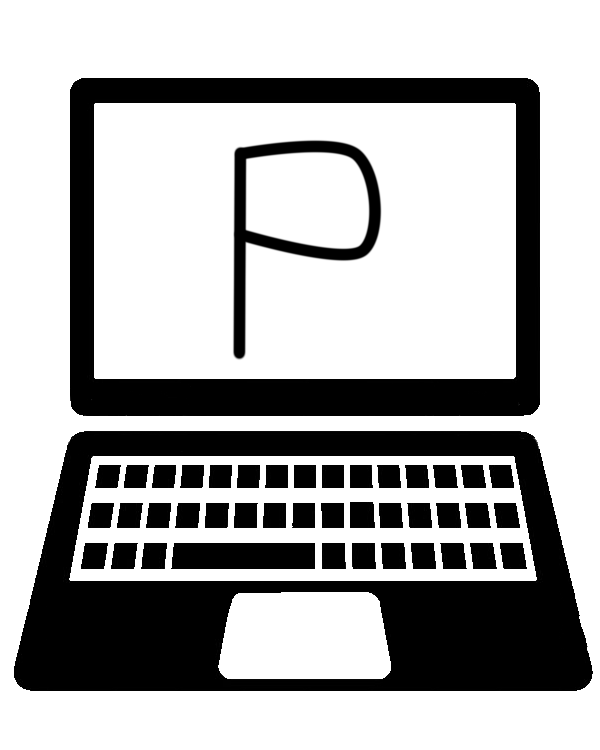
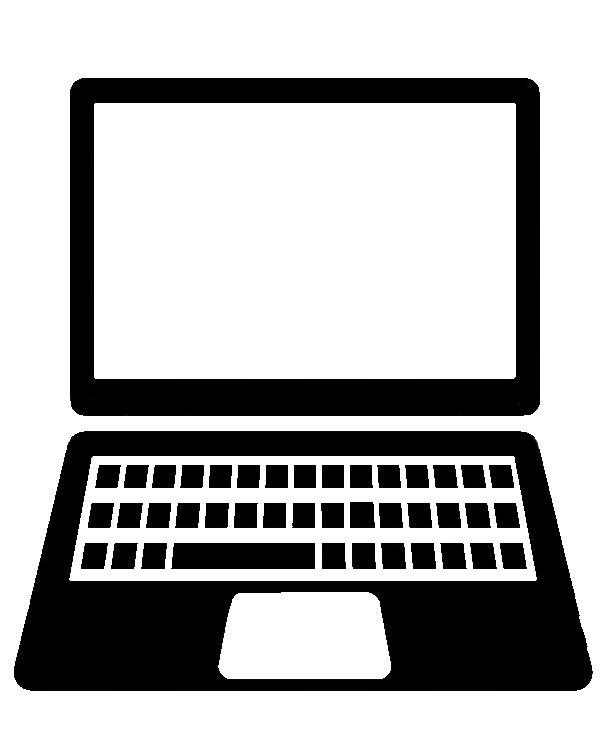
u

Changed region(s): [[0.39, 0.184, 0.66, 0.4907]]

diff --git a/PG/mail.html b/PG/mail.html
@@ -18,7 +18,7 @@
         <div class="header" style="Margin: 0 auto;max-width: 600px;min-width: 320px; width: 320px;width: calc(28000% - 167400px);" id="emb-email-header-container">
         <!--[if (mso)|(IE)]><table align="center" class="header" cellpadding="0" cellspacing="0" role="presentation"><tr><td style="width: 600px"><![endif]-->
           <div class="logo emb-logo-margin-box" style="font-size: 26px;line-height: 32px;Margin-top: 6px;Margin-bottom: 20px;color: #c3ced9;font-family: Roboto,Tahoma,sans-serif;Margin-left: 20px;Margin-right: 20px;" align="center">
-            <div class="logo-center" align="center" id="emb-email-header"><a style="text-decoration: none;transition: opacity 0.1s ease-in;color: #c3ced9;" target="_blank"><img style="display: block;height: auto;width: 100%;border: 0;max-width: 220px;" src="https://pgpingp.github.io/PGping/PUBG-B612/B612.png" alt="B612" width="220"></a></div>
+            <div class="logo-center" align="center" id="emb-email-header"><a style="text-decoration: none;transition: opacity 0.1s ease-in;color: #c3ced9;" target="_blank"><img style="display: block;height: auto;width: 100%;border: 0;max-width: 220px;" src="https://pgpingp.github.io/PGping/PG/note.png" alt="notebook" width="220"></a></div>
           </div>
         <!--[if (mso)|(IE)]></td></tr></table><![endif]-->
         </div>
@@ -35,7 +35,7 @@
         
             <div style="Margin-left: 20px;Margin-right: 20px;Margin-bottom: 24px;">
       <div style="mso-line-height-rule: exactly;mso-text-raise: 4px;">
-        <h2 class="size-30" style="Margin-top: 0;Margin-bottom: 0;font-style: normal;font-weight: normal;color: #000;font-size: 26px;line-height: 34px;text-align: center;" lang="x-size-30"><strong>B612 Pak Service</strong></h2><h3 style="Margin-top: 16px;Margin-bottom: 0;font-style: normal;font-weight: normal;color: #000;font-size: 16px;line-height: 24px;text-align: center;">다른 컴퓨터에서 코드 사용이 확인 되었습니다.&nbsp;</h3><p style="Margin-top: 12px;Margin-bottom: 0;text-align: center;">프로그램 에서 코드 인증을 진행 해주시길 바랍니다.</p><p style="Margin-top: 20px;Margin-bottom: 0;text-align: center;">만약 자신이 한적이 없다면. 개발자에게 문의 해주시길 바랍니다.</p>
+        <h2 class="size-30" style="Margin-top: 0;Margin-bottom: 0;font-style: normal;font-weight: normal;color: #000;font-size: 26px;line-height: 34px;text-align: center;" lang="x-size-30"><strong>PG Service</strong></h2><h3 style="Margin-top: 16px;Margin-bottom: 0;font-style: normal;font-weight: normal;color: #000;font-size: 16px;line-height: 24px;text-align: center;">다른 컴퓨터에서 코드 사용이 확인 되었습니다.&nbsp;</h3><p style="Margin-top: 12px;Margin-bottom: 0;text-align: center;">프로그램 에서 코드 인증을 진행 해주시길 바랍니다.</p><p style="Margin-top: 20px;Margin-bottom: 0;text-align: center;">만약 자신이 한적이 없다면. 개발자에게 문의 해주시길 바랍니다.</p>
       </div>
     </div>
         
